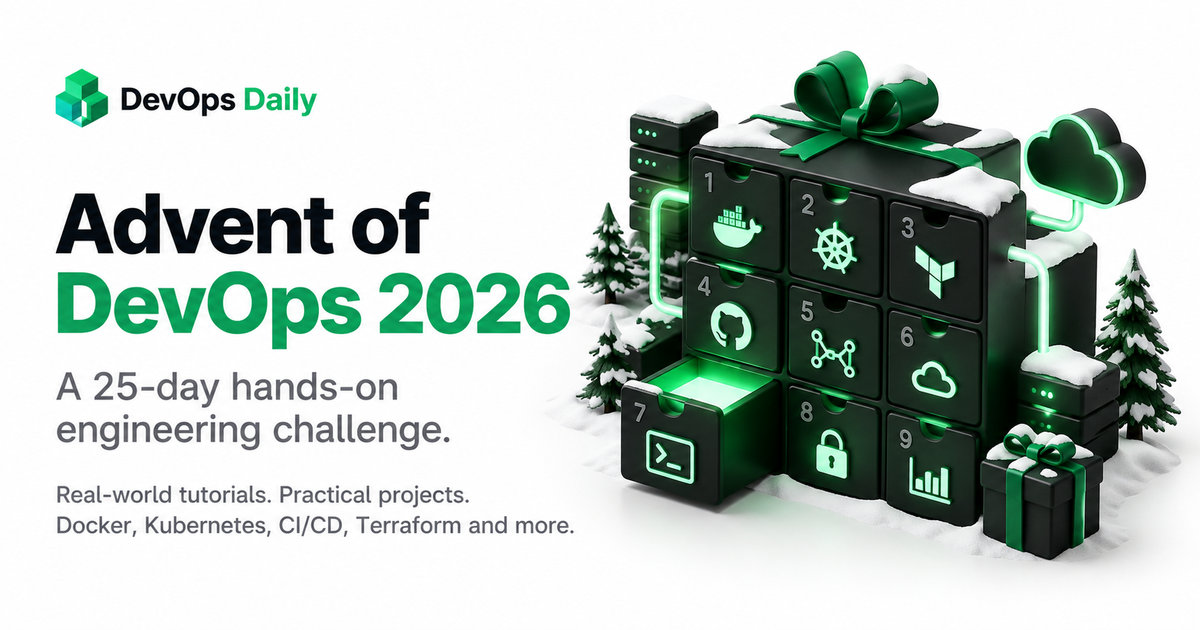
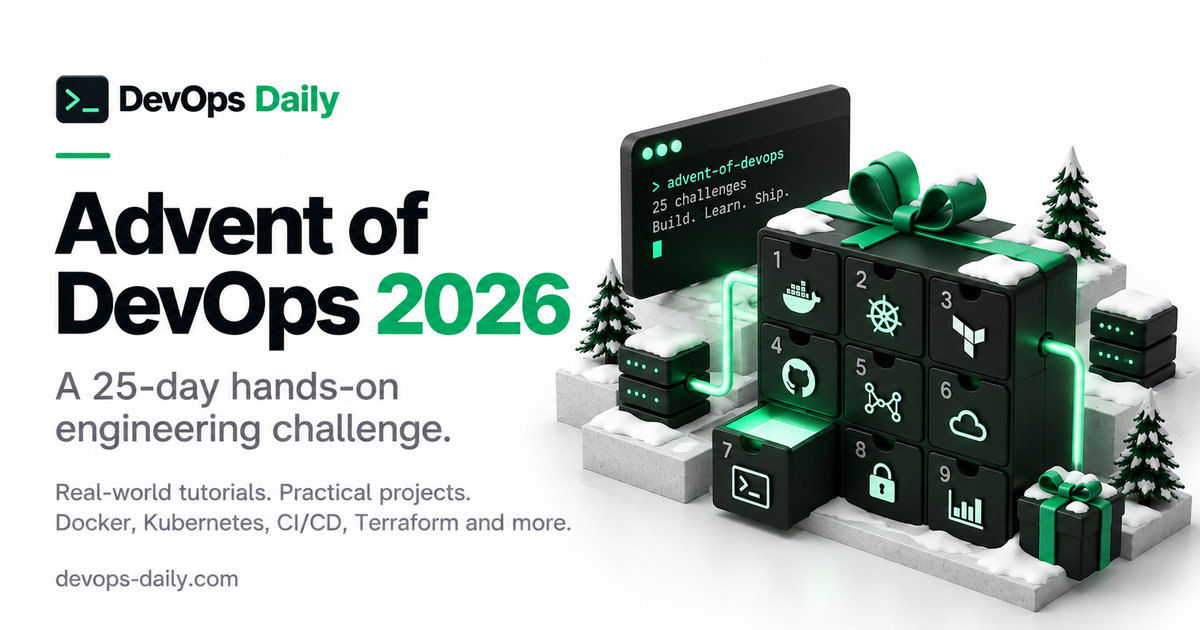
New share images for games, quizzes, exercises and newsletters; updated event images (#1956)
1200x630 JPEG, about 120 KB each, no embedded metadata. Replaces the Advent of DevOps, Advent of Postgres and Hacktoberfest images from #1955, and removes the two images no page uses now.

diff --git a/app/exercises/page.tsx b/app/exercises/page.tsx
@@ -20,7 +20,7 @@ export const metadata: Metadata = {
     type: 'website',
     images: [
       {
-        url: 'https://devops-daily.com/images/exercises-og-image.png',
+        url: 'https://devops-daily.com/images/pages/exercises.jpg',
         width: 1200,
         height: 630,
         alt: 'DevOps Exercises & Labs',
@@ -32,7 +32,7 @@ export const metadata: Metadata = {
     title: 'DevOps Exercises & Labs - Hands-On Learning | DevOps Daily',
     description:
       'Practice real-world DevOps skills with our comprehensive collection of hands-on exercises and labs.',
-    images: ['https://devops-daily.com/images/exercises-og-image.png'],
+    images: ['https://devops-daily.com/images/pages/exercises.jpg'],
   },
 };
 

diff --git a/app/games/page.tsx b/app/games/page.tsx
@@ -22,7 +22,7 @@ export const metadata: Metadata = {
     url: '/games',
     images: [
       {
-        url: '/images/pages/simulators.png',
+        url: '/images/pages/games.jpg',
         width: 1200,
         height: 630,
         alt: 'DevOps Games & Interactive Tools',
@@ -34,7 +34,7 @@ export const metadata: Metadata = {
     title: 'DevOps Games & Interactive Tools - DevOps Daily',
     description:
       'Interactive games and fun simulators for DevOps professionals to learn and practice skills in a playful way. Explore our collection of DevOps-themed games designed to enhance your skills and knowledge.',
-    images: ['/images/pages/simulators.png'],
+    images: ['/images/pages/games.jpg'],
   },
 };
 

diff --git a/app/exercises/layout.tsx b/app/exercises/layout.tsx
@@ -12,7 +12,7 @@ export const metadata: Metadata = {
     url: 'https://devops-daily.com/exercises',
     images: [
       {
-        url: '/images/exercises-og-image.png',
+        url: '/images/pages/exercises.jpg',
         width: 1200,
         height: 630,
         alt: 'DevOps Exercises & Labs - Hands-On Learning',
@@ -26,7 +26,7 @@ export const metadata: Metadata = {
     card: 'summary_large_image',
     images: [
       {
-        url: '/images/exercises-og-image.png',
+        url: '/images/pages/exercises.jpg',
         width: 1200,
         height: 630,
         alt: 'DevOps Exercises & Labs - Hands-On Learning',

diff --git a/app/quizzes/page.tsx b/app/quizzes/page.tsx
@@ -30,7 +30,7 @@ export const metadata: Metadata = {
     url: '/quizzes',
     images: [
       {
-        url: '/og-image.png',
+        url: '/images/pages/quizzes.jpg',
         width: 1200,
         height: 630,
         alt: 'DevOps Quizzes',
@@ -42,7 +42,7 @@ export const metadata: Metadata = {
     title: 'DevOps Quizzes & Tests - DevOps Daily',
     description:
       'Test your DevOps knowledge with interactive quizzes covering Git, Docker, Kubernetes, Terraform, and more.',
-    images: ['/og-image.png'],
+    images: ['/images/pages/quizzes.jpg'],
   },
 };
 

diff --git a/app/newsletters/page.tsx b/app/newsletters/page.tsx
@@ -18,7 +18,7 @@ export const metadata: Metadata = {
     url: '/newsletters',
     images: [
       {
-        url: '/og-image.png',
+        url: '/images/pages/newsletters.jpg',
         width: 1200,
         height: 630,
         alt: 'DevOps Daily Newsletter Archive',
